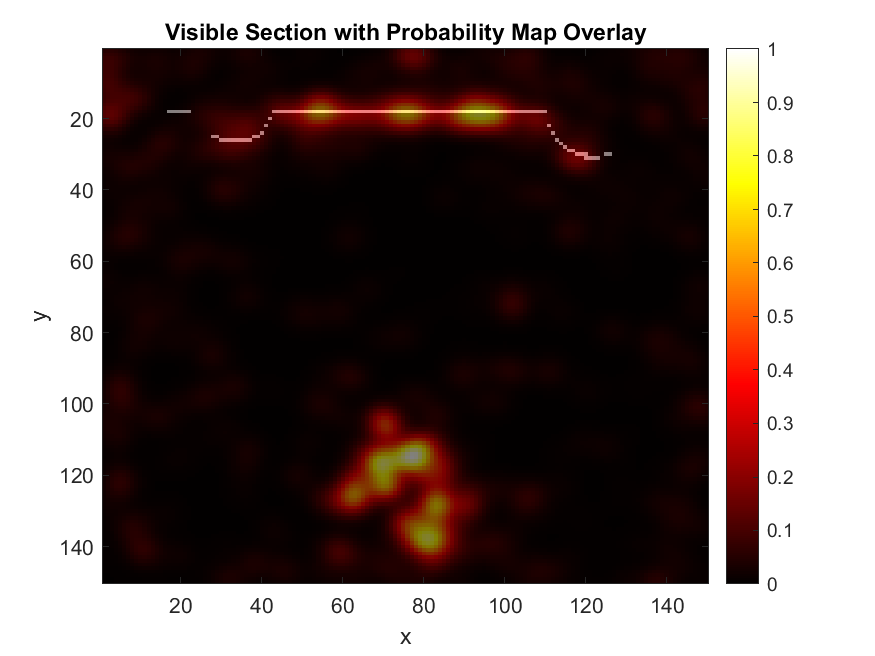
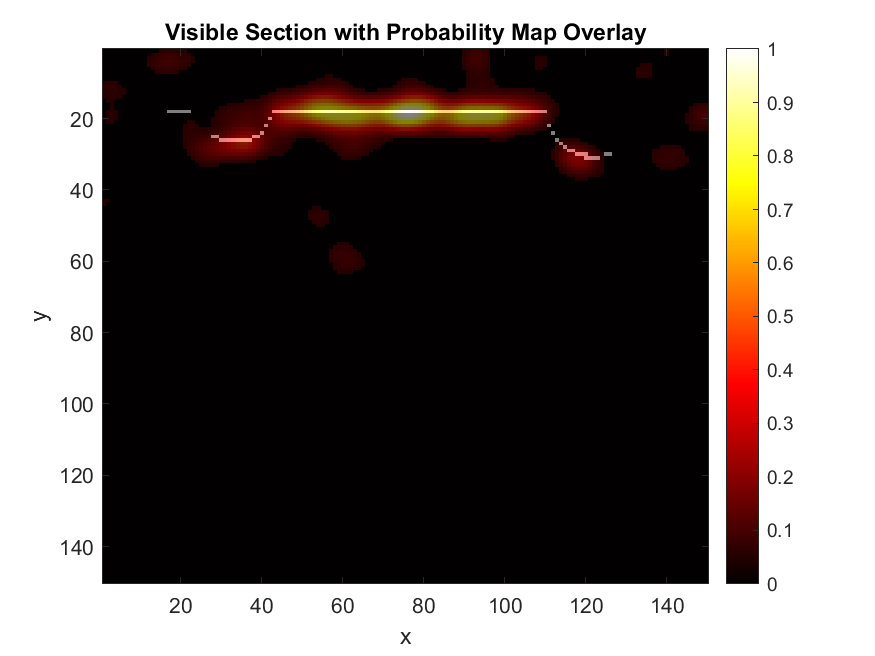
added awgn and nc_mask

diff --git a/functions/create_dictionary.m b/functions/create_dictionary.m
@@ -1,4 +1,4 @@
-function create_dictionary(simulation)
+function create_dictionary(simulation, nc_mask)
 
     fprintf("Creating dictionary... \n");
 
@@ -6,37 +6,48 @@ function create_dictionary(simulation)
     sensor_mask = simulation.sensor.mask;
 
     N_sensors = sum(sensor_mask(:));
-    Nx = kgrid.Nx;
-    Ny = kgrid.Ny;
     Nt = kgrid.Nt;
-    N_voxels = Nx*Ny;
 
     n_cut = simulation.n_cut;
-    Nt = Nt-n_cut;
+    Nt = Nt - n_cut;
 
-    dictionary = zeros(N_sensors, N_voxels, Nt+1);
+    % Pre-select valid filters
+    valid_voxels = find(~nc_mask);  % linear indices
+    N_computable_voxels = numel(valid_voxels);
+
+    % Pre-aclocate dictionary
+    dictionary = zeros(N_sensors, N_computable_voxels, Nt+1);
 
     for s = 1:N_sensors
         fprintf("Sensor %d of %d ", s, N_sensors);
-        for v = 1:N_voxels
+
+        % Loop only on valid voxels
+        for v_idx = 1:N_computable_voxels
+            v = valid_voxels(v_idx);
+
+            % Shifts signal in time
             distance = calculate_distance(simulation, v, s);
-            signal = -propagated_wave(simulation, distance); % The minus accounts for phase inversion
+            signal = -propagated_wave(simulation, distance); % phase inversion
             signal = signal(n_cut:end);
+
+            % Normalize
             max_signal_value = max(abs(signal));
-            if max_signal_value == 0 
+            if max_signal_value == 0
                 max_signal_value = 1;
             end
             normalized_signal = signal / max_signal_value;
-            dictionary(s, v, :) = normalized_signal;
+
+            % Save
+            dictionary(s, v_idx, :) = normalized_signal;
+
         end
         fprintf("Complete \n");
     end
 
     dict_name = return_file_name(simulation, 'dictionary');
-        
     fprintf("Saving... \n");
     save(dict_name, 'dictionary', '-v7.3');
 
     fprintf("Creation complete \n\n");
-    
+
 end

diff --git a/b_sparse_coding.m b/b_sparse_coding.m
@@ -21,12 +21,20 @@
 % *************************************************************************
 
 % =========================================================================
+% Define a non-computable mask
+% =========================================================================
+type = 'half_grid';
+begin = 75;
+nc_mask = create_nc_mask(simulation, type, begin);
+
+
+% =========================================================================
 % If the dictionary for the problem was not created, create
 % If any changes on the sensors array was done, it will need a new one
 % =========================================================================
 dict_name = return_file_name(simulation, 'dictionary');
 if ~exist(dict_name, 'file')  
-    create_dictionary(simulation);  % Create dictionary only if file doesn't exist
+    create_dictionary(simulation, nc_mask);  % Create dictionary only if file doesn't exist
 end
  
 
@@ -94,6 +102,12 @@ lambda = 0.0001;
 %g = mexLasso(y_stack, A_stack, param);
 
 fprintf("Optimization problem solved \n\n");
+
+
+% =========================================================================
+% Correct g with non computed voxels
+% =========================================================================
+g = add_nc_voxels(simulation, nc_mask, g);
 
 
 % =========================================================================

diff --git a/a_simulation_routine.m b/a_simulation_routine.m
@@ -20,14 +20,14 @@
 % accordingly
 % *************************************************************************
 
-% clc;
-% clearvars;
+clc;
+clearvars;
 addpath("functions\")
 
 % =========================================================================
 % Simulation control
 % =========================================================================
-num_sensors = 11;
+num_sensors = 26;
 sensor_type = 1;
     % 1 = disc receiver
     % 2 = line receiver
@@ -36,7 +36,7 @@ emitter_type = 1;
     % 1 = point
     % 2 = flat
 
-image_number = 1;
+image_number = 4;
 simulation_time = 280e-6; % [s]
 
 simulation = Simulation(sensor_type, emitter_type, num_sensors, ...
@@ -130,8 +130,8 @@ simulation.run_simulation();
 end_of_click = 110e-6;
 simulation.remove_emitter_signal(end_of_click);
 simulation.normalize_data();
-% snr = 0;
-% simulation.awgn_to_measurements(snr);
+snr = 0;
+simulation.awgn_to_measurements(snr);
 
 
 % =========================================================================

diff --git a/Simulation.m b/Simulation.m
@@ -53,6 +53,7 @@ classdef Simulation < handle
         fig
         result_map
         n_cut
+        nc_mask
     end
 
 
@@ -253,6 +254,11 @@ classdef Simulation < handle
         %% Add a awgn %%
         function awgn_to_measurements(obj, snr)
             obj.sensor_data = awgn(obj.sensor_data, snr, 'measured');
+        end
+
+        %% Define non computable mask %%
+        function set_nc_mask(obj, nc_mask)
+            obj.nc_mask = nc_mask;
         end
     end
 end

diff --git a/c_gen_result_routine.m b/c_gen_result_routine.m
@@ -30,7 +30,7 @@ load('g.mat', 'g');
 % Generate result
 % =========================================================================
 sigma = 3;         % Controls "spread" of influence 
-threshold = 0.0;   % Filter everything below this value
+threshold = 0.2;   % Filter everything below this value
 plot = 1;          % Boolean, plot or not
 [fig, map] = gen_result_map(simulation, g, sigma, threshold, plot);
 simulation.set_result_map(map);

diff --git a/functions/add_nc_voxels.m b/functions/add_nc_voxels.m
@@ -1,0 +1,23 @@
+function g_new = add_nc_voxels(simulation, nc_mask, g)
+    
+    Nx = simulation.kgrid.Nx;
+    Ny = simulation.kgrid.Ny;
+    grid_size = Nx*Ny;
+
+    g_new = zeros(grid_size, 1);
+
+    nc_indices = find(nc_mask);
+
+    i = 0;
+    for v = 1:grid_size
+        if ismember(v, nc_indices)
+            continue
+        else
+            i = i+1;
+            g_new(v) = g(i);
+        end
+    end
+
+
+end
+

diff --git a/functions/create_nc_mask.m b/functions/create_nc_mask.m
@@ -1,0 +1,12 @@
+function nc_mask = create_nc_mask(simulation, type, size)
+    switch type
+        case 'half_grid'
+            Nx = simulation.kgrid.Nx;
+            Ny = simulation.kgrid.Ny;
+            nc_mask = zeros(Nx, Ny);
+            for i = size:Nx
+                nc_mask(i, :) = 1;
+            end
+    end
+end
+
